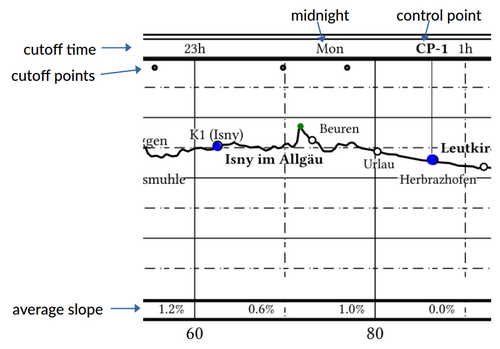
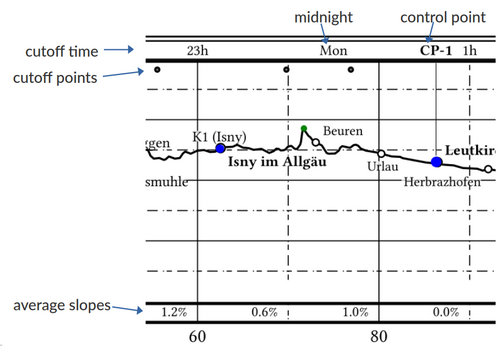
update documentation

Changed region(s): [[0.0, 0.0287, 0.99, 0.9742], [0.84, 0.8309, 0.99, 0.9456], [0.48, 0.8596, 0.6, 0.9169]]

diff --git a/README.md b/README.md
@@ -1,44 +1,46 @@
 # WPX 
 
-**WPX** is a tool for **brevet cycling**. It generates printable route PDFs with elevation profiles, maps, and control information from GPX tracks.
+**WPX** is a tool for long-distance cycling, especially brevet/randonneuring. It generates printable route PDFs with elevation profiles, maps, and control points from GPX tracks.
 
-Try it online, [julien5.dev/wpx](https://www.julien5.dev/wpx).
+Try it online: [julien5.dev/wpx](https://www.julien5.dev/wpx).
 
 No installation required.
 
-## What is it ?
+## What is it?
 
 Used *before* the ride, WPX reads GPX files and does two things:
 
-  * **Generate a PDF file** containing elevation profiles, maps, and a table of important points (controls). Print this PDF to take on the ride. It is light, does not run out of battery, and has a larger display than a mobile phone.  Here is a screenshot of a [sample pdf](docs/sample/alpes.pdf):
+  * **Generate a PDF file** containing elevation profiles, maps, and a table of important points (controls). Print this PDF to take on the ride. Paper is lightweight, does not run out of battery, and has a larger display than a mobile phone.  Here is a screenshot of a [sample pdf](docs/sample/alpes.pdf):
 
     ![pdf](docs/images/alpes-small.png)
 
     During the ride, your GPS provides local directions, while this PDF tells you:
 
-    - Where am I on a regional scale, what are the cities/villages around?
-    - What elevation is ahead?
+    - Where am I on a regional scale? What are the cities/villages around?
+    - What elevation gain and slope is ahead?
     - How much time on hand do I have left?
-	
-	Unlike tools that rely on pre-rendered tiles, WPX does not fetch pre-rendered tiles, it renders the map on-the-fly using the gpx track and OSM points.
 
-  * **Generate cutoff points.** These are waypoints placed at regular intervals (e.g., every 10 km or every 250 m of elevation gain). Each waypoint is labeled with its closing time and the average slope to that point: "12:34-5.1%", for example. Displayed as "Next Waypoint" on your GPS, it helps you estimate your time on hand.
+    Unlike tools that rely on pre-rendered tiles, WPX renders the map on the fly using the GPX track and OSM points.
 
-#### Notes on the PDF:
-   * The elevation profile contains most of the relevant information:
+  * **Generate cutoff points.** These are waypoints placed at regular intervals (e.g., every 10 km or every 250 m of elevation gain). Each waypoint is labeled with its closing time and the average slope to that point: `12:34-5.1%`, for example. Displayed as "Next Waypoint" on your GPS, they help you estimate your time on hand.
+
+#### Notes on the PDF
+
+* The elevation profile has a header with the cutoff time and the control points.
 
 ![](docs/images/profile-closeup.png)
 
    * WPX tries to display the same labels on the map as on the elevation profile. However, it may fail to find positions where labels do not overlap the track or other points. In that case, OSM points are omitted; this is why you might see points on the elevation profile but not on the map. GPX waypoints, on the other hand, are still shown even if they overlap.
    
-   * The table lists controls, waypoints, and selected OSM points. Cutoff points are not included. Only the most important OSM points are shown, based on population and proximity to other points, in order to maintain an even spatial distribution
+   * The table lists controls, waypoints, and selected OSM points. Cutoff points are not included. Only the most important OSM points are shown, based on population and proximity to other points, in order to maintain an even spatial distribution.
 
 ## Input
 
-  - WPX loads one or multiple GPX files and reads all tracks and segments. **Control points** are determined by the end of segments. If a waypoint exists near a segment end, its name and description are used for that control. The segment points should have elevation data.
-  - Cities and villages are downloaded from [OSM data](https://wiki.openstreetmap.org/wiki/Overpass_API) based on the track's bounding box. If the download fails (common with very long tracks), please retry.
+* WPX loads one or multiple GPX files and reads all tracks and segments. **Control points** are determined by the ends of segments. If a waypoint exists near a segment end, its name and description are used for that control. The segment points should have elevation data.
 
-*Note: The elevation gain is computed using a 200m moving average on the GPX data. This is sufficient for identifying the hilliest sections, but do not expect perfect absolute accuracy.*
+* Cities and villages are downloaded from [OSM data](https://wiki.openstreetmap.org/wiki/Overpass_API) based on the track's bounding box. If the download fails (common with very long tracks), please retry.
+
+*Note: Elevation gain is computed using a 200 m moving average on the GPX data. This is sufficient for identifying the hilliest sections, but do not expect perfect absolute accuracy.*
 
 ## Output
 
@@ -46,36 +48,20 @@ Used *before* the ride, WPX reads GPX files and does two things:
 
 WPX generates a zip file containing the PDF and the following GPX files:
 
-| filename               | description                                                                                                                                |
-|------------------------|--------------------------------------------------------------------------------------------------------------------------------------------|
-| `flat-track.gpx`       | The complete track without elevation data. This prevents devices like the Garmin eTrex from automatically generating "high/low" waypoints. |
-| `flat-segment-<n>.gpx` | Individual segments, from one control to the next, without elevation data.                                                                 |
-| `cutoff-all.gpx`       | All cutoff points in a single file.                                                                                                        |
-| `cutoff-<n>.gpx`       | Cutoff points separated to avoid ambiguity.                                                                                                |
+| filename                   | description                                                                                   |
+|----------------------------|-----------------------------------------------------------------------------------------------|
+| `track-waypoints.gpx`      | Individual segments, from one control to the next, and the waypoints. Useful as input to WPX. |
+| `flat-segment-<n>.gpx`     | Individual segments, from one control to the next, without elevation data.                    |
+| `elevated-segment-<n>.gpx` | Individual segments, from one control to the next, with elevation data.                       |
+| `cutoff-all.gpx`           | All cutoff points in a single file.                                                           |
+| `cutoff-<n>.gpx`           | Cutoff points separated to avoid ambiguity.                                                   |
+
+The "flat" segments without elevation data are useful to prevent devices like the Garmin eTrex from automatically generating "high/low" waypoints.
 
 *Note on cutoff point files*: 
 
-GPS devices determine the "Next Waypoint" based on geographic proximity. For an out-and-back route (like Paris-Brest-Paris), your device might mistakenly show a point from the return journey while you are still on the outward journey. Loading `cutoff-1.gpx`  for the start, and `cutoff-2.gpx` on the way back works around that problem. 
+GPS devices determine the "Next Waypoint" based on geographic proximity. For an out-and-back route (like Paris-Brest-Paris), your device might mistakenly show a point from the return journey while you are still on the outward journey. Loading `cutoff-1.gpx`  at the start, and `cutoff-2.gpx` on the way back works around that problem. 
 But mid-ride file transfers are a gamble you don't want to take with frozen fingers or a dying battery. You can choose your preferred strategy, using either `cutoff-all.gpx` or the separated `cutoff-1.gpx` and `cutoff-2.gpx`.
-
-For a brevet with 7 controls, the output might contain:
-
-```
-$ unzip -l /tmp/foo.zip 
-[...]
-   114734  2024-01-01 00:00   flat-segment-01.gpx
-   198644  2024-01-01 00:00   flat-segment-02.gpx
-    71852  2024-01-01 00:00   flat-segment-03.gpx
-    34066  2024-01-01 00:00   flat-segment-04.gpx
-    61081  2024-01-01 00:00   flat-segment-05.gpx
-    60580  2024-01-01 00:00   flat-segment-06.gpx
-    38897  2024-01-01 00:00   flat-segment-07.gpx
-   578411  2024-01-01 00:00   flat-track.gpx
-     5033  2024-01-01 00:00   cutoff-1.gpx
-      539  2024-01-01 00:00   cutoff-2.gpx
-     5424  2024-01-01 00:00   cutoff-all.gpx
-   356943  2024-01-01 00:00   route.pdf
-```
 
 ----
 
@@ -107,7 +93,7 @@ See [UI notes](./docs/UI.md).
 
 The project consists of two parts:
 
-  * A [backend](./backend) written in Rust. It contains algorithm to read/write gpx files, computes the profiles, the maps, assembles the pdf. 
+  * A [backend](./backend) written in Rust. It contains algorithm to read/write gpx files, computes the profiles, the maps, assembles the pdf. The map and profile are serialized as svg documents.
   * A [frontend](./frontend/ui) written in Flutter. This is the code for the UI. 
 
 They communicate via [flutter\_rust\_bridge](https://cjycode.com/flutter_rust_bridge/). I started this project to learn Rust and Flutter; this is my first project in both languages.
